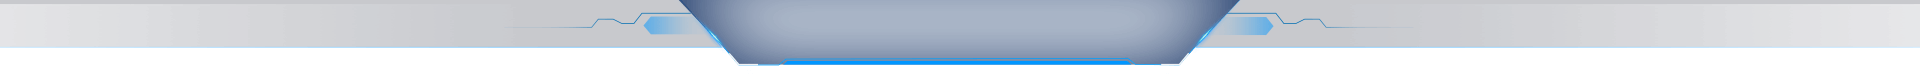
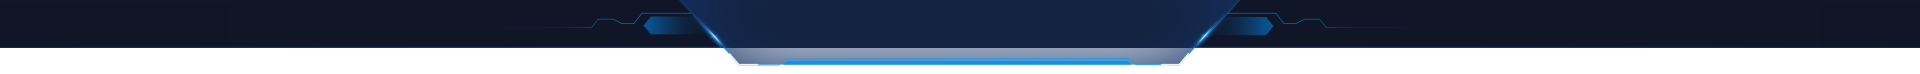
fix:banner背景替换 & 实时监控单位选择不是联级选择

diff --git a/src/pages/monitor/index.vue b/src/pages/monitor/index.vue
@@ -11,7 +11,22 @@
 			</div>
 		</div>
 		<div class="data-count">
-			<a-select class="select-group" :value="filterVal" :options="filterOptions" @change="uploadMapPoint" />
+			<a-select
+				v-if="filterType === 'deviceType'"
+				class="select-group"
+				:value="filterVal"
+				:options="filterOptions"
+				@change="uploadMapPoint"
+			/>
+			<a-cascader
+				v-else-if="filterType === 'groupType'"
+				class="select-group"
+				:options="groupIdTree"
+				change-on-select
+				v-model="groupId"
+				:fieldNames="{ label: 'title', value: 'key', children: 'children' }"
+				placeholder="请选择单位"
+			/>
 			<div class="count-num">
 				<p v-for="str of count" :key="str">
 					{{ str }}
@@ -67,6 +82,7 @@ const {
 	monitorAllDeviceStatus,
 	getMonitorDataDetail,
 	monitorAllAlarmType,
+	getGroupTree,
 } = apis
 
 export default {
@@ -113,11 +129,19 @@ export default {
 				top: 0,
 			},
 			alarmTypeCountData: {},
+			groupIdTree: [],
+			// groupId: [this.$store.state.account.userInfo.groupId],
+			groupId: [],
 		}
 	},
 	computed: {
 		filterTypeKey() {
 			return this.filterTypesOptions.find(i => i.value === this.filterType).key
+		},
+	},
+	watch: {
+		groupId() {
+			this.getMapPointList()
 		},
 	},
 	mounted() {
@@ -140,24 +164,32 @@ export default {
 			return monitorAllAlarmType().then(({ data }) => (this.alarmTypeCountData = data))
 		},
 		getGroupOptions(val = "groupType") {
-			return getSelectOptions(val).then(({ data }) => {
-				this.filterOptions = data.map(({ code, name }) => ({
-					label: name,
-					value: code,
-				}))
-				this.filterType = val
-				this.filterVal = this.filterOptions[0].value
-				this.getMapPointList()
-			})
+			debugger
+			this.filterType = val
+			if (val === "deviceType") {
+				return getSelectOptions("deviceType").then(({ data }) => {
+					this.filterOptions = data.map(({ code, name }) => ({
+						label: name,
+						value: code,
+					}))
+					this.filterVal = this.filterOptions[0].value
+					this.getMapPointList()
+				})
+			} else if (val === "groupType") {
+				return getGroupTree().then(({ data }) => {
+					this.groupIdTree = data
+					this.groupId = this.getUserFormGroupArr(data)
+				})
+			}
 		},
 		uploadMapPoint(val) {
 			this.filterVal = val
 		},
 		getMapPointList() {
-			const { filterTypeKey, filterVal } = this
+			const { filterTypeKey, filterVal, groupId } = this
 			const params = {
 				type: filterTypeKey,
-				grooupId: filterVal,
+				groupId: filterTypeKey === 1 ? groupId[groupId.length - 1] : filterVal,
 			}
 			return getMonitorDataList(params).then(
 				({ data }) => new Promise(resolve => setTimeout(() => resolve(this.setMapPoint(data.filter(Boolean))), 1000))
@@ -282,6 +314,32 @@ export default {
 				this.toPath("/alarm-center?status=1&alarmType=30")
 			}
 		},
+		getUserFormGroupArr(treeData) {
+			const userGroupId = this.$store.state.account.userInfo.groupId
+			const baseArr = [userGroupId]
+
+			if (!treeData || treeData.length === 0) return baseArr
+			const allGroup = []
+			const func = data => {
+				data.forEach(i => {
+					allGroup.push(i)
+					if (Array.isArray(i.children) && i.children.length > 0) {
+						func(i.children)
+					}
+				})
+			}
+			func(treeData)
+
+			const findParentIds = findKey => {
+				const { parentId } = allGroup.find(i => i.key === findKey)
+				if (parentId !== 0) {
+					baseArr.unshift(parentId)
+					return findParentIds(parentId)
+				}
+			}
+			findParentIds(userGroupId)
+			return baseArr
+		},
 	},
 }
 </script>
@@ -366,7 +424,7 @@ export default {
 			width: 13.08rem;
 			height: 2.33rem;
 			position: absolute;
-			bottom: 0.67rem;
+			bottom: 1rem;
 		}
 		.select-group {
 			left: 2.17rem;

diff --git a/src/components/OrganizationList.vue b/src/components/OrganizationList.vue
@@ -65,6 +65,8 @@ export default {
 			required: true,
 		},
 		showRightMenu: Boolean,
+		showDeviceNum: Boolean,
+		showChildLevel: { type: [Number, String], default: 1 },
 	},
 	data() {
 		return {
@@ -73,7 +75,7 @@ export default {
 			autoExpandParent: true,
 			searchValue: "",
 			dataList: [],
-			removedefaultExpand: false
+			removedefaultExpand: false,
 		}
 	},
 	computed: {
@@ -82,13 +84,26 @@ export default {
 			return searchValue || removedefaultExpand ? expandedKeys : defaultExpandedKeys
 		},
 		defaultExpandedKeys() {
-			return this.treeData.map(i => i.key)
+			if (this.showChildLevel == 1) {
+				return this.treeData.map(i => i.key)
+			} else if (this.showChildLevel == 2) {
+				const arr = []
+				this.treeData.forEach(({ key, children }) => {
+					arr.push(key)
+					if (Array.isArray(children) && children.length > 0) {
+						children.forEach(({ key: childKey }) => arr.push(childKey))
+					}
+				})
+				return arr
+			}
+			return []
 		},
 		computeTreeData() {
 			const setIconSlot = data => {
 				for (let i = 0; i < data.length; i++) {
 					const item = data[i]
 					item.slots = { icon: "fileIcon" }
+					if (this.showDeviceNum) item.title = `${item.title} (${item.deviceNum})`
 					if (item.children && Array.isArray(item.children) && item.children.length > 0) {
 						setIconSlot(item.children)
 					}

diff --git a/src/pages/material-manage/pages/network-unit-manage/index.vue b/src/pages/material-manage/pages/network-unit-manage/index.vue
@@ -5,6 +5,7 @@
 				:treeData="treeData"
 				@handleSelectFunc="handleSelectTreeNode"
 				showRightMenu
+				showChildLevel="2"
 				@treeNodeAdd="addChildGroup"
 				@treeNodeEdit="getGroupDetailAndEdit"
 				@treeNodeDelete="deleteGroup"
@@ -250,11 +251,13 @@ export default {
 	// overflow: hidden;
 	.organization {
 		width: 21.67rem;
+		height: calc(100vh - 43px);
 		padding: 0 1.5rem;
 		flex: 0 0 auto;
 		border-right: 1px solid #3f4a77;
 		overflow: hidden;
 		text-overflow: ellipsis;
+		overflow-y: auto;
 		// position: relative;
 		// top: calc(20px);
 	}

diff --git a/src/pages/device-manage/index.vue b/src/pages/device-manage/index.vue
@@ -1,7 +1,7 @@
 <template>
 	<div class="device-manage-container">
 		<div class="organization">
-			<OrganizationList :treeData="treeData" @handleSelectFunc="handleSelectTreeNode" />
+			<OrganizationList :treeData="treeData" @handleSelectFunc="handleSelectTreeNode" showDeviceNum />
 		</div>
 		<div class="device-manage">
 			<a-radio-group v-model="deviceStatusRadio">

diff --git a/src/layouts/Banner.vue b/src/layouts/Banner.vue
@@ -100,7 +100,6 @@ export default {
 	height: 46.6px;
 	display: flex;
 	justify-content: right;
-	background-color: #131a2d;
 }
 .active {
 	color: #fff;

diff --git a/src/styles/common.less b/src/styles/common.less
@@ -171,6 +171,9 @@
 	.ant-cascader-picker-label {
 		color: #81899c;
 	}
+	i.ant-cascader-picker-clear {
+		display: none;
+	}
 }
 
 // Input
